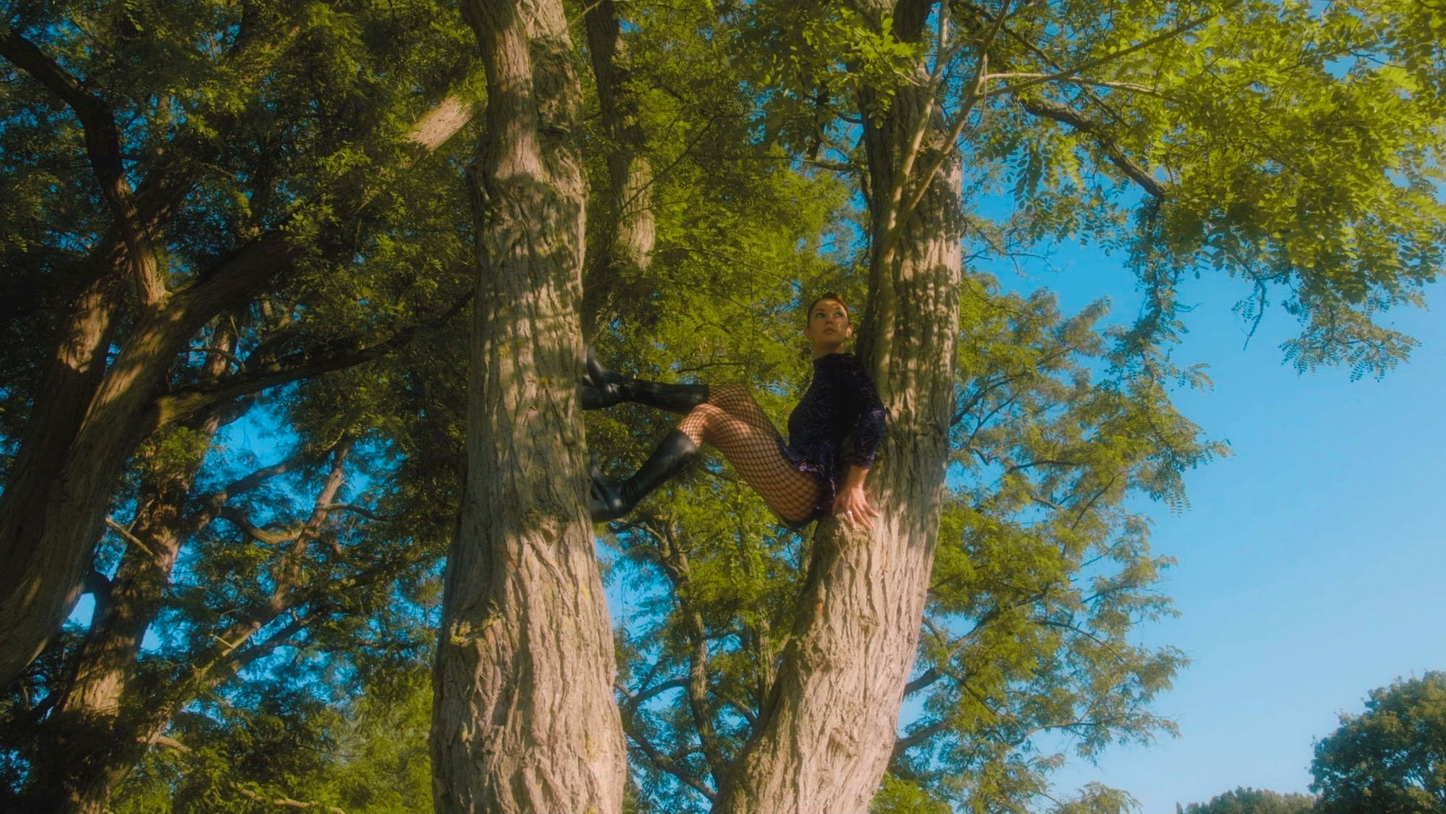
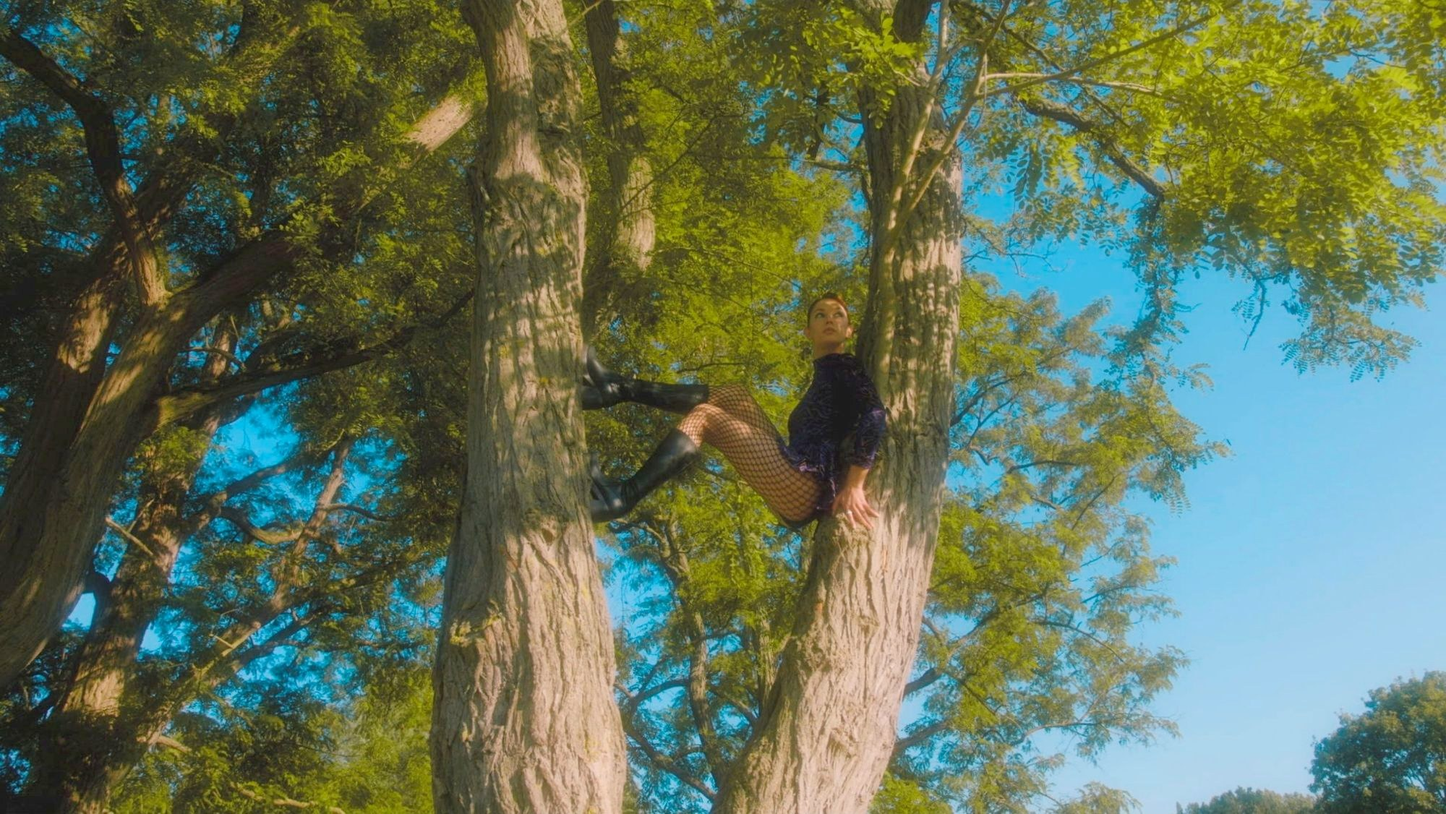
Brighten the hero tree photo so it holds up on dimmed screens
The shot was dark to begin with (median luminance 82/255) and the hero
dimmed it further with a 30% black wash, which turned muddy on a phone
that isn't at full brightness.

- Lifted the photo's shadows and midtones with a 0.78 gamma curve plus a
  small saturation bump to keep the greens from going flat. Highlights had
  headroom, so nothing clips.
- Eased the overlay to 20%, still enough separation for the logo and the
  intro copy.

Displayed midtones go from 58 to 83 out of 255.

Claude-Session: https://claude.ai/code/session_01E1QXDnTNKk2QJ1t6YtVCqY

diff --git a/components/hero-promo-video.tsx b/components/hero-promo-video.tsx
@@ -18,7 +18,7 @@ export default function VideoHero({
           priority
           className="object-cover"
         />
-        <div className="absolute inset-0 bg-black/30"></div>
+        <div className="absolute inset-0 bg-black/20"></div>
       </div>
 
       {/* Logo — pinned to the top, well above where she sits in the trees so it never overlaps her.
